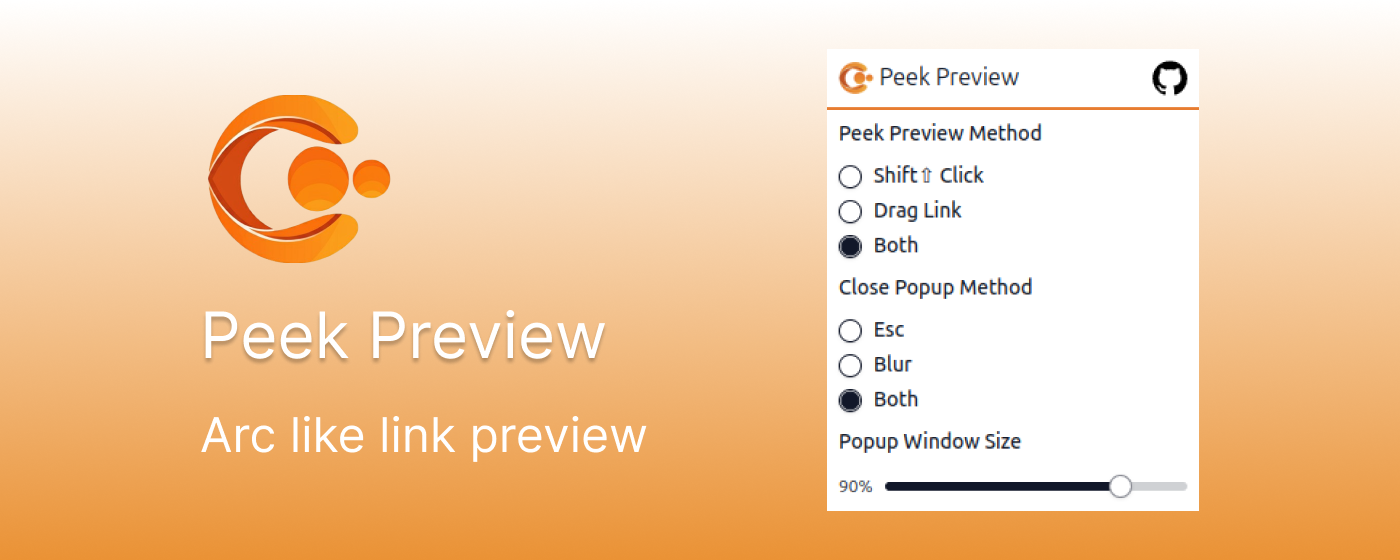
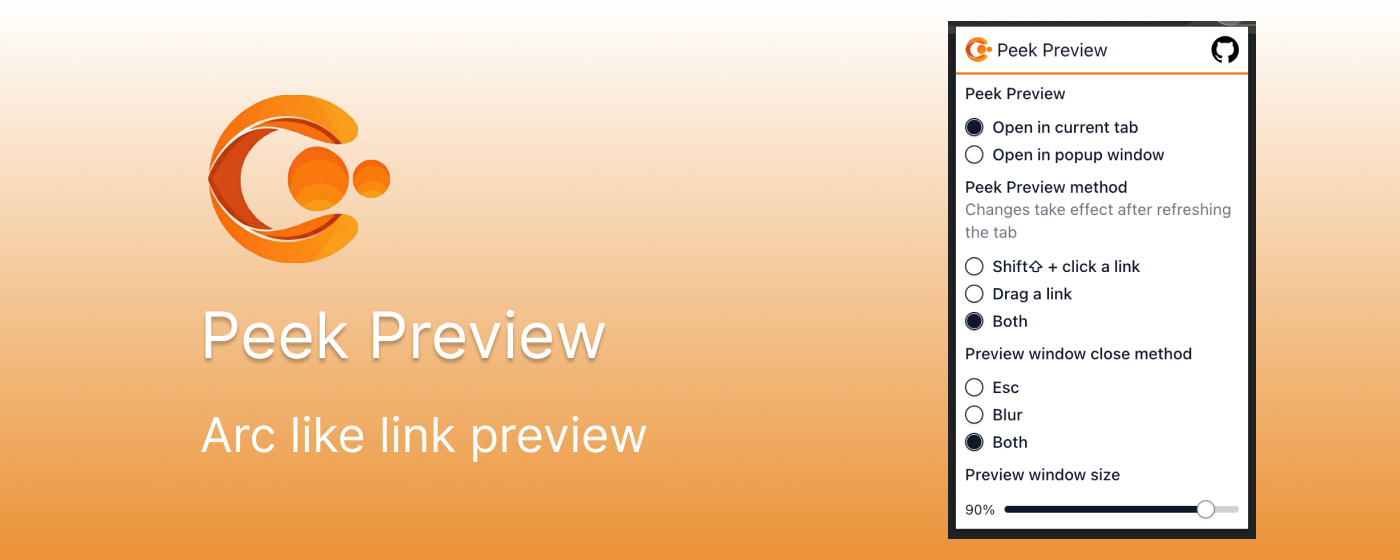
docs: update store info and readme

Changed region(s): [[0.5836, 0.0304, 0.9214, 0.9714]]

diff --git a/README.md b/README.md
@@ -2,19 +2,20 @@
 
 ![GitHub Release](https://img.shields.io/github/v/release/tomowang/peek-preview)
 ![React](https://img.shields.io/badge/Made_with-React-blue)
-![React](https://img.shields.io/badge/Made_with-wxt-green)
+![wxt](https://img.shields.io/badge/Made_with-wxt-green)
 ![MIT license](https://img.shields.io/github/license/tomowang/peek-preview)
 ![GitHub Repo stars](https://img.shields.io/github/stars/tomowang/peek-preview)
 
 Peek Preview is a browser extension that allows you to preview the contents of a
 webpage before you open it in a new tab.
 
-![marquee](./store/promotional-marquee.png)
+[![marquee](./store/promotional-marquee.png)](https://youtu.be/s3XLsu8M1LY "Peek Preview Demo")
 
 Features:
 
-- Shift + Click or drag link to open in popup window
-- Esc or blur to close popup window
+-   Preview links in current tab or popup window
+-   Use shift⇧ + click link or drag link to open links for peek preview
+-   Press Esc or just blur the preview window to close it
 
 This project is created by command `pnpm dlx wxt@latest init`
 with options `react` and `pnpm`.

diff --git a/store/README.md b/store/README.md
@@ -14,8 +14,9 @@ Create by tomowang with ❤ <https://tomo.dev>
 
 Features:
 
-1. Use shift⇧ click or drag link to open link in popup window instead of new tab
-2. Press Esc or just blur the popup window to close it
+1. Preview links in current tab or popup window
+2. Use shift⇧ + click link or drag link to open links for peek preview
+3. Press Esc or just blur the preview window to close it
 
 Open source on GitHub: <https://github.com/tomowang/peek-preview>
 
@@ -32,6 +33,8 @@ English
 ![icon 128](../public/icon/128.png)
 
 ## Promo Video
+
+https://youtu.be/s3XLsu8M1LY
 
 ## Screenshots
 
